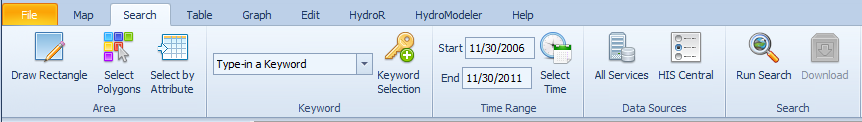
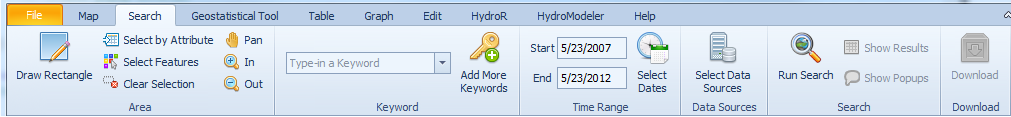
Updated help files for version 1.5 Fixed item 8464 - help file for Search and Metadata fetcher

Changed region(s): [[0.0, 0.0, 1.0, 1.0], [0.6937, 0.7179, 0.7541, 0.7949], [0.9954, 0.0769, 1.0, 0.1538]]

diff --git a/Source/DataDownload/DataDownload/DataDownloadPlugin.cs b/Source/DataDownload/DataDownload/DataDownloadPlugin.cs
@@ -33,8 +33,8 @@ namespace HydroDesktop.DataDownload
 
         private SimpleActionItem _btnDownloadInSearch;
         private SimpleActionItem _btnShowPopups;
-        private SimpleActionItem _btnUpdate;
-        private SimpleActionItem _btnSearchOptions;
+        //private SimpleActionItem _btnUpdate;
+        //private SimpleActionItem _btnSearchOptions;
         private SimpleActionItem _btnSearchResults;
         private ToolStripItem _seriesControlUpdateValuesMenuItem;
         private SearchLayerInformer _searchLayerInformer;
@@ -141,22 +141,6 @@ namespace HydroDesktop.DataDownload
             var metadataRootKey = SharedConstants.MetadataRootKey;
             var header = App.HeaderControl;
 
-            //add the "metadata" tab
-            //header.Add(new RootItem(metadataRootKey, Msg.Metadata) { SortOrder = -5 });
-            
-            //header.Add(new SimpleActionItem(metadataRootKey, Msg.Pan, PanTool_Click) { GroupCaption = Msg.View_Group, SmallImage = Resources.hand_16x16, LargeImage = Resources.hand_32x32, ToggleGroupKey = Msg.Map_Tools_Group});
-            //header.Add(new SimpleActionItem(metadataRootKey, Msg.Zoom_In, ZoomIn_Click) { GroupCaption = Msg.Zoom_Group, ToolTipText = Msg.Zoom_In_Tooltip, SmallImage = Resources.zoom_in_16x16, LargeImage = Resources.zoom_in_32x32, ToggleGroupKey = Msg.Map_Tools_Group });
-            //header.Add(new SimpleActionItem(metadataRootKey, Msg.Zoom_Out, ZoomOut_Click) { GroupCaption = Msg.Zoom_Group, ToolTipText = Msg.Zoom_Out_Tooltip, SmallImage = Resources.zoom_out_16x16, LargeImage = Resources.zoom_out_32x32, ToggleGroupKey = Msg.Map_Tools_Group });
-            //header.Add(new SimpleActionItem(metadataRootKey, Msg.Zoom_To_Extents, ZoomToMaxExtents_Click) { GroupCaption = Msg.Zoom_Group, ToolTipText = Msg.Zoom_To_Extents_Tooltip, SmallImage = Resources.zoom_extend_16x16, LargeImage = Resources.zoom_extend_32x32 });
-            //header.Add(new SimpleActionItem(metadataRootKey, Msg.Zoom_To_Layer, ZoomToLayer_Click) { GroupCaption = Msg.Zoom_Group, SmallImage = Resources.zoom_layer_16x16, LargeImage = Resources.zoom_layer_32x32 });
-
-            //header.Add(new SimpleActionItem(metadataRootKey, Msg.Select, SelectionTool_Click) { GroupCaption = Msg.Map_Tools_Group, SmallImage = Resources.select_16x16, LargeImage = Resources.select_32x32, ToggleGroupKey = Msg.Map_Tools_Group });
-            //header.Add(new SimpleActionItem(metadataRootKey, Msg.Deselect, DeselectAll_Click) { GroupCaption = Msg.Map_Tools_Group, SmallImage = Resources.deselect_16x16, LargeImage = Resources.deselect_32x32 });
-            //header.Add(new SimpleActionItem(metadataRootKey, Msg.Zoom_To_Selection, ZoomToSelection_Click) { GroupCaption = Msg.Map_Tools_Group, SmallImage = Resources.zoom_selection_16x16, LargeImage = Resources.zoom_selection_32x32 });
-
-            //header.Add(_btnDownload = new SimpleActionItem(Msg.Download, DoDownload) { RootKey = metadataRootKey, GroupCaption = Msg.Download, LargeImage = Resources.download_32, SmallImage = Resources.download_16, ToolTipText = Msg.DownloadTooTip, Enabled = false });
-            //header.Add(_btnUpdate = new SimpleActionItem(Msg.Update, Update_Click) { RootKey = metadataRootKey, GroupCaption = Msg.Download, LargeImage = Resources.refresh_32x32, SmallImage = Resources.refresh_16x16, Enabled = false });
-
             // Subscribe to events
             App.Map.LayerAdded += Map_LayerAdded;
             App.Map.Layers.LayerRemoved += Layers_LayerRemoved;
@@ -165,7 +149,6 @@ namespace HydroDesktop.DataDownload
 
             App.ExtensionsActivated += AppOnExtensionsActivated;
             App.DockManager.PanelClosed += new EventHandler<DotSpatial.Controls.Docking.DockablePanelEventArgs>(DockManager_PanelClosed);
-            //----
 
             // Update SeriesControl ContextMenu
             _seriesControlUpdateValuesMenuItem = SeriesControl.ContextMenuStrip.Items.Add("Update Values from Server", null, DoSeriesControlUpdateValues);
@@ -213,7 +196,6 @@ namespace HydroDesktop.DataDownload
             App.Map.Layers.LayerRemoved -= Layers_LayerRemoved;
             App.SerializationManager.Deserializing -= SerializationManager_Deserializing;
             DownloadManager.Completed -= DownloadManager_Completed;
-            //App.HeaderControl.RootItemSelected -= RootItemSelected;
             App.ExtensionsActivated -= AppOnExtensionsActivated;
 
             foreach (var layer in App.Map.MapFrame.Layers)
@@ -244,7 +226,7 @@ namespace HydroDesktop.DataDownload
 
                 App.HeaderControl.Add(_btnShowPopups = new SimpleActionItem("Show Popups", ShowPopups_Click) { RootKey = SharedConstants.SearchRootkey, GroupCaption = Msg.Search, SmallImage = Resources.popup_16x16, ToggleGroupKey = Msg.Download_Tools_Group, Enabled = true});
                 _btnShowPopups.Toggling += ShowPopups_Click;
-                _btnShowPopups.Toggle();
+                //_btnShowPopups.Toggle();
                 _btnShowPopups.Enabled = false;
                 _showPopups = true;
 
@@ -252,7 +234,7 @@ namespace HydroDesktop.DataDownload
                 
                 App.HeaderControl.Add(_btnDownloadInSearch = new SimpleActionItem(Msg.Download, DoDownload) { RootKey = SharedConstants.SearchRootkey, GroupCaption = Msg.Download, LargeImage = Resources.download_32, SmallImage = Resources.download_16, ToolTipText = Msg.DownloadTooTip, Enabled = false });
 
-                App.HeaderControl.Add(_btnUpdate = new SimpleActionItem(Msg.Update, Update_Click) { RootKey = SharedConstants.SearchRootkey, GroupCaption = Msg.Download, LargeImage = Resources.refresh_32x32, SmallImage = Resources.refresh_16x16, Enabled = false });
+                //App.HeaderControl.Add(_btnUpdate = new SimpleActionItem(Msg.Update, Update_Click) { RootKey = SharedConstants.SearchRootkey, GroupCaption = Msg.Download, LargeImage = Resources.refresh_32x32, SmallImage = Resources.refresh_16x16, Enabled = false });
             }
 
             if (!_showSearchResultsPanel)
@@ -569,16 +551,22 @@ namespace HydroDesktop.DataDownload
                 {
                     _btnDownloadInSearch.Enabled = true;
                 }
-                if (_btnSearchOptions != null)
-                {
-                    _btnSearchOptions.Enabled = true;
-                }
+                //if (_btnSearchOptions != null)
+                //{
+                //    _btnSearchOptions.Enabled = true;
+                //}
                 if (_btnSearchResults != null)
                 {
                     _btnSearchResults.Enabled = true;
                 }
                 if (_btnShowPopups != null)
+                {
+                    if (!_btnShowPopups.Enabled)
+                    {
+                        _btnShowPopups.Toggle();
+                    }
                     _btnShowPopups.Enabled = true;
+                }
 
                 
                 //_btnDownload.Enabled = true;
@@ -692,13 +680,13 @@ namespace HydroDesktop.DataDownload
             }
 
             //check for update button
-            if (_btnUpdate != null)
-            {
-                if (SearchLayerModifier.LayerHaveDownlodedData(sourceLayer))
-                {
-                    _btnUpdate.Enabled = true;
-                }
-            }
+            //if (_btnUpdate != null)
+            //{
+            //    if (SearchLayerModifier.LayerHaveDownlodedData(sourceLayer))
+            //    {
+            //        _btnUpdate.Enabled = true;
+            //    }
+            //}
 
             // Refresh list of the time series in the table and graph in the main form
             SeriesControl.RefreshSelection();

diff --git a/Source/TableView/Properties/AssemblyInfo.cs b/Source/TableView/Properties/AssemblyInfo.cs
@@ -1,9 +1,6 @@
 using System.Reflection;
 using System.Runtime.InteropServices;
 
-// It is necessary to add the DotSpatial.Plugins namespace to correctly
-// recognize plugin attributes
-
 // General Information about an assembly is controlled through the following 
 // set of attributes. Change these attribute values to modify the information
 // associated with an assembly.
@@ -34,10 +31,5 @@ using System.Runtime.InteropServices;
 // You can specify all the values or you can default the Build and Revision Numbers 
 // by using the '*' as shown below:
 // [assembly: AssemblyVersion("1.0.*")]
-[assembly: AssemblyVersion("1.5.0.0")]
-[assembly: AssemblyFileVersion("1.5.0.0")]
-
-// It is necessary to set the PluginAssembly attribute so that the assembly is
-// properly recognized by the main HydroDesktop application as a plugin
-//[assembly: PluginAssembly]
-
+[assembly: AssemblyVersion("1.5.1.0")]
+[assembly: AssemblyFileVersion("1.5.1.0")]

diff --git a/Source/Search3/SearchPlugin.cs b/Source/Search3/SearchPlugin.cs
@@ -131,11 +131,11 @@ namespace Search3
 
             #region Dates group
             
-            rbStartDate = new TextEntryActionItem { Caption = "Start", GroupCaption = Msg.Time_Range, RootKey = _searchKey, Width = 60 };
+            rbStartDate = new TextEntryActionItem { Caption = "Start", GroupCaption = Msg.Time_Range, RootKey = _searchKey, Width = 70 };
             rbStartDate.PropertyChanged += rbStartDate_PropertyChanged;
             head.Add(rbStartDate);
 
-            rbEndDate = new TextEntryActionItem { Caption = " End", GroupCaption = Msg.Time_Range, RootKey = _searchKey, Width = 60 };
+            rbEndDate = new TextEntryActionItem { Caption = " End", GroupCaption = Msg.Time_Range, RootKey = _searchKey, Width = 70 };
             head.Add(rbEndDate);
             rbEndDate.PropertyChanged += rbEndDate_PropertyChanged;
             UpdateDatesCaption();

diff --git a/Source/DataDownload/DataDownload/Properties/AssemblyInfo.cs b/Source/DataDownload/DataDownload/Properties/AssemblyInfo.cs
@@ -32,6 +32,6 @@ using System.Runtime.InteropServices;
 // You can specify all the values or you can default the Build and Revision Numbers 
 // by using the '*' as shown below:
 // [assembly: AssemblyVersion("1.0.*")]
-[assembly: AssemblyVersion("1.5.0.0")]
-[assembly: AssemblyFileVersion("1.5.0.0")]
+[assembly: AssemblyVersion("1.5.1.0")]
+[assembly: AssemblyFileVersion("1.5.1.0")]
 [assembly: InternalsVisibleTo("DataDownloadTests")]

diff --git a/Source/HydroDesktop.Help/Properties/AssemblyInfo.cs b/Source/HydroDesktop.Help/Properties/AssemblyInfo.cs
@@ -31,5 +31,5 @@ using System.Runtime.InteropServices;
 // You can specify all the values or you can default the Build and Revision Numbers 
 // by using the '*' as shown below:
 // [assembly: AssemblyVersion("1.0.*")]
-[assembly: AssemblyVersion ( "1.5.0.0" )]
-[assembly: AssemblyFileVersion ( "1.5.0.0" )]
+[assembly: AssemblyVersion ( "1.5.1.0" )]
+[assembly: AssemblyFileVersion ( "1.5.1.0" )]

diff --git a/Source/DataAggregation/Properties/AssemblyInfo.cs b/Source/DataAggregation/Properties/AssemblyInfo.cs
@@ -31,5 +31,5 @@ using System.Runtime.InteropServices;
 // You can specify all the values or you can default the Build and Revision Numbers 
 // by using the '*' as shown below:
 // [assembly: AssemblyVersion("1.0.*")]
-[assembly: AssemblyVersion("1.5.0.0")]
-[assembly: AssemblyFileVersion("1.5.0.0")]
+[assembly: AssemblyVersion("1.5.1.0")]
+[assembly: AssemblyFileVersion("1.5.1.0")]

diff --git a/Source/DataExport/Properties/AssemblyInfo.cs b/Source/DataExport/Properties/AssemblyInfo.cs
@@ -31,5 +31,5 @@ using System.Runtime.InteropServices;
 // You can specify all the values or you can default the Build and Revision Numbers 
 // by using the '*' as shown below:
 // [assembly: AssemblyVersion("1.0.*")]
-[assembly: AssemblyVersion("1.5.0.0")]
-[assembly: AssemblyFileVersion("1.5.0.0")]
+[assembly: AssemblyVersion("1.5.1.0")]
+[assembly: AssemblyFileVersion("1.5.1.0")]

diff --git a/Source/DataImport/Properties/AssemblyInfo.cs b/Source/DataImport/Properties/AssemblyInfo.cs
@@ -31,5 +31,5 @@ using System.Runtime.InteropServices;
 // You can specify all the values or you can default the Build and Revision Numbers 
 // by using the '*' as shown below:
 // [assembly: AssemblyVersion("1.0.*")]
-[assembly: AssemblyVersion("1.5.0.0")]
-[assembly: AssemblyFileVersion("1.5.0.0")]
+[assembly: AssemblyVersion("1.5.1.0")]
+[assembly: AssemblyFileVersion("1.5.1.0")]

diff --git a/Source/Docking/Properties/AssemblyInfo.cs b/Source/Docking/Properties/AssemblyInfo.cs
@@ -31,5 +31,5 @@ using System.Runtime.InteropServices;
 // You can specify all the values or you can default the Build and Revision Numbers 
 // by using the '*' as shown below:
 // [assembly: AssemblyVersion("1.0.*")]
-[assembly: AssemblyVersion("1.5.0.0")]
-[assembly: AssemblyFileVersion("1.5.0.0")]
+[assembly: AssemblyVersion("1.5.1.0")]
+[assembly: AssemblyFileVersion("1.5.1.0")]

diff --git a/Source/EPADelineation/Properties/AssemblyInfo.cs b/Source/EPADelineation/Properties/AssemblyInfo.cs
@@ -31,5 +31,5 @@ using System.Runtime.InteropServices;
 // You can specify all the values or you can default the Build and Revision Numbers 
 // by using the '*' as shown below:
 // [assembly: AssemblyVersion("1.0.*")]
-[assembly: AssemblyVersion("1.5.0.0")]
-[assembly: AssemblyFileVersion("1.5.0.0")]
+[assembly: AssemblyVersion("1.5.1.0")]
+[assembly: AssemblyFileVersion("1.5.1.0")]

diff --git a/Source/ExcelDataProvider/Properties/AssemblyInfo.cs b/Source/ExcelDataProvider/Properties/AssemblyInfo.cs
@@ -31,5 +31,5 @@ using System.Runtime.InteropServices;
 // You can specify all the values or you can default the Build and Revision Numbers 
 // by using the '*' as shown below:
 // [assembly: AssemblyVersion("1.0.*")]
-[assembly: AssemblyVersion("1.5.0.0")]
-[assembly: AssemblyFileVersion("1.5.0.0")]
+[assembly: AssemblyVersion("1.5.1.0")]
+[assembly: AssemblyFileVersion("1.5.1.0")]

diff --git a/Source/HelpTab/HelpTab/Properties/AssemblyInfo.cs b/Source/HelpTab/HelpTab/Properties/AssemblyInfo.cs
@@ -31,5 +31,5 @@ using System.Runtime.InteropServices;
 // You can specify all the values or you can default the Build and Revision Numbers 
 // by using the '*' as shown below:
 // [assembly: AssemblyVersion("1.0.*")]
-[assembly: AssemblyVersion("1.5.0.0")]
-[assembly: AssemblyFileVersion("1.5.0.0")]
+[assembly: AssemblyVersion("1.5.1.0")]
+[assembly: AssemblyFileVersion("1.5.1.0")]
